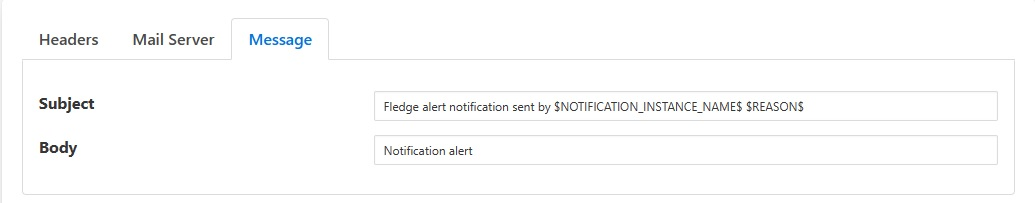
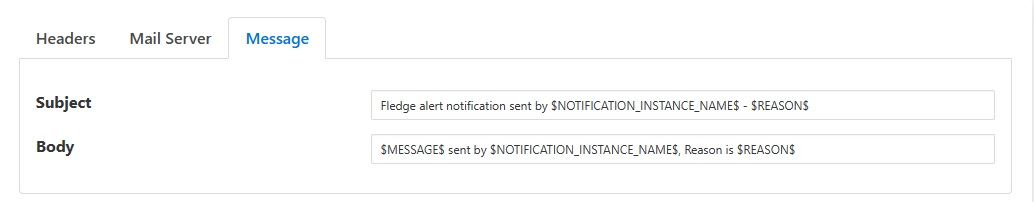
FOGL-7466: Implemented new macro $ for email body

diff --git a/plugin.cpp b/plugin.cpp
@@ -33,7 +33,8 @@ static const char * def_cfg = QUOTE({
 		"default" : "alert.subscriber@dianomic.com",
 		"order" : "1",
 		"displayName" : "To address",
-		"group" : "Headers"
+		"group" : "Headers",
+		"mandatory" : "true"
 		},
 	"email_to_name" : {
 		"description" : "The comma separated name list to send the alert to",
@@ -41,7 +42,8 @@ static const char * def_cfg = QUOTE({
 		"default" : "Notification alert subscriber",
 		"order" : "2",
 		"displayName" : "To name",
-		"group" : "Headers"
+		"group" : "Headers",
+		"mandatory" : "true"
 		},
 	"email_cc" : {
 		"description" : "The comma separated address list to send the CC alert",
@@ -81,7 +83,8 @@ static const char * def_cfg = QUOTE({
 		"displayName" : "From address",
 		"default" : "dianomic.alerts@gmail.com",
 		"order" : "7",
-		"group" : "Headers"
+		"group" : "Headers",
+		"mandatory" : "true"
 		},
 	"email_from_name" : {
 		"description" : "The name used to send the alert email",
@@ -89,7 +92,8 @@ static const char * def_cfg = QUOTE({
 		"default" : "Notification alert", 
 		"displayName" : "From name",
 		"order" : "8",
-		"group" : "Headers"
+		"group" : "Headers",
+		"mandatory" : "true"
 		},
 	"subject" : {
 		"description" : "The email subject. Macro $NOTIFICATION_INSTANCE_NAME$ can be used to provide information about notification instance name. Macro $REASON$ can be use to provide the reason for notification.",
@@ -100,11 +104,11 @@ static const char * def_cfg = QUOTE({
 		"group" : "Message"
 		},
 	"email_body" : {
-		"description" : "The email body",
+		"description" : "The email body. Macro $MESSAGE$ can be used to provide text message received from service. Macro $NOTIFICATION_INSTANCE_NAME$ can be used to provide information about notification instance name. Macro $REASON$ can be use to provide the reason for notification.",
 		"type" : "string",
 		"displayName" : "Body",
 		"order" : "10",
-		"default" : "Notification alert",
+		"default" : "$MESSAGE$ sent by $NOTIFICATION_INSTANCE_NAME$, Reason is $REASON$",
 		"group" : "Message"
 		},	
 	"server" : {
@@ -113,7 +117,8 @@ static const char * def_cfg = QUOTE({
 		"displayName" : "SMTP Server",
 		"order" : "11",
 		"default" : "smtp.gmail.com",
-		"group" : "Mail Server"
+		"group" : "Mail Server",
+		"mandatory" : "true"
 		},
 	"port" : {
 		"description" : "The SMTP server port",
@@ -121,7 +126,8 @@ static const char * def_cfg = QUOTE({
 		"displayName" : "SMTP Port",
 		"order" : "12",
 		"default" : "587",
-		"group" : "Mail Server"
+		"group" : "Mail Server",
+		"mandatory" : "true"
 		},
 	"use_ssl_tls" : {
 		"description" : "Use SSL/TLS for email transfer",
@@ -365,20 +371,20 @@ void validateConfig(PLUGIN_HANDLE *handle, EmailCfg *emailCfg)
 	if ( numRecipients == 0) 
 	{
 		info->isConfigValid = false;
-		Logger::getLogger()->error("Recipient is missing");
+		Logger::getLogger()->error("No valid recipient email address(es)");
 		return;
 	}
 
 	if ( emailCfg->email_from.empty())
 	{
 		info->isConfigValid = false;
-		Logger::getLogger()->error("Sender is missing");
+		Logger::getLogger()->error("Sender email address is missing");
 		return;
 	}
 	if (emailCfg->server.empty() || emailCfg->port == 0)
 	{
 		info->isConfigValid = false;
-		Logger::getLogger()->error("SMTP Server , SMTP port can not be blank");
+		Logger::getLogger()->error("Invalid Email server/port configuration");
 		return;
 	}
 	// Check if To address and To name have same count
@@ -458,7 +464,6 @@ bool plugin_deliver(PLUGIN_HANDLE handle,
 	Logger::getLogger()->info("Email notification plugin_deliver(): deliveryName=%s, notificationName=%s, triggerReason=%s, message=%s",
 							deliveryName.c_str(), notificationName.c_str(), triggerReason.c_str(), message.c_str());
 	PLUGIN_INFO *info = (PLUGIN_INFO *) handle;
-	StringReplace(info->emailCfg.subject, "$NOTIFICATION_INSTANCE_NAME$", notificationName);
 	
 	// Parse JSON triggerReason 
 	Document doc;
@@ -468,16 +473,23 @@ bool plugin_deliver(PLUGIN_HANDLE handle,
 		Logger::getLogger()->error("Email notification delivery: failure parsing JSON trigger reason '%s'", triggerReason.c_str());
 		return false;
 	}
-
+	
+	// Replace Macros for subject
+	StringReplace(info->emailCfg.subject, "$NOTIFICATION_INSTANCE_NAME$", notificationName);
 	string reason = doc["reason"].GetString();
 
 	StringReplace(info->emailCfg.subject, "$REASON$", reason);
 
+	// Replace Macros for email body
+	std::string emailBody = info->emailCfg.email_body.c_str();
+	StringReplace(emailBody, "$MESSAGE$", message);
+	StringReplace(emailBody, "$REASON$", reason);
+	StringReplace(emailBody, "$NOTIFICATION_INSTANCE_NAME$", notificationName);
 
 	int rv = 0;
 	if (info->isConfigValid)
 	{
-		rv = sendEmailMsg(&info->emailCfg, info->emailCfg.email_body.c_str());
+		rv = sendEmailMsg(&info->emailCfg, emailBody.c_str());
 	}
 	else
 	{

diff --git a/docs/index.rst b/docs/index.rst
@@ -39,7 +39,7 @@ During the creation of your notification select the email notification plugin fr
 
   - **Subject**: A Subject to put in the email message. Macro $NOTIFICATION_INSTANCE_NAME$ can be used in subject to provide information about notification instance name. Macro $REASON$ can be use to provide the reason for notification.
 
-  - **Body**: A message to put in the email message
+  - **Body**: A message to put in the email message. Macro $MESSAGE$ can be used to provide text message received from service. Macro $NOTIFICATION_INSTANCE_NAME$ can be used to provide information about notification instance name. Macro $REASON$ can be use to provide the reason for notification.
 
 
 +-----------+
